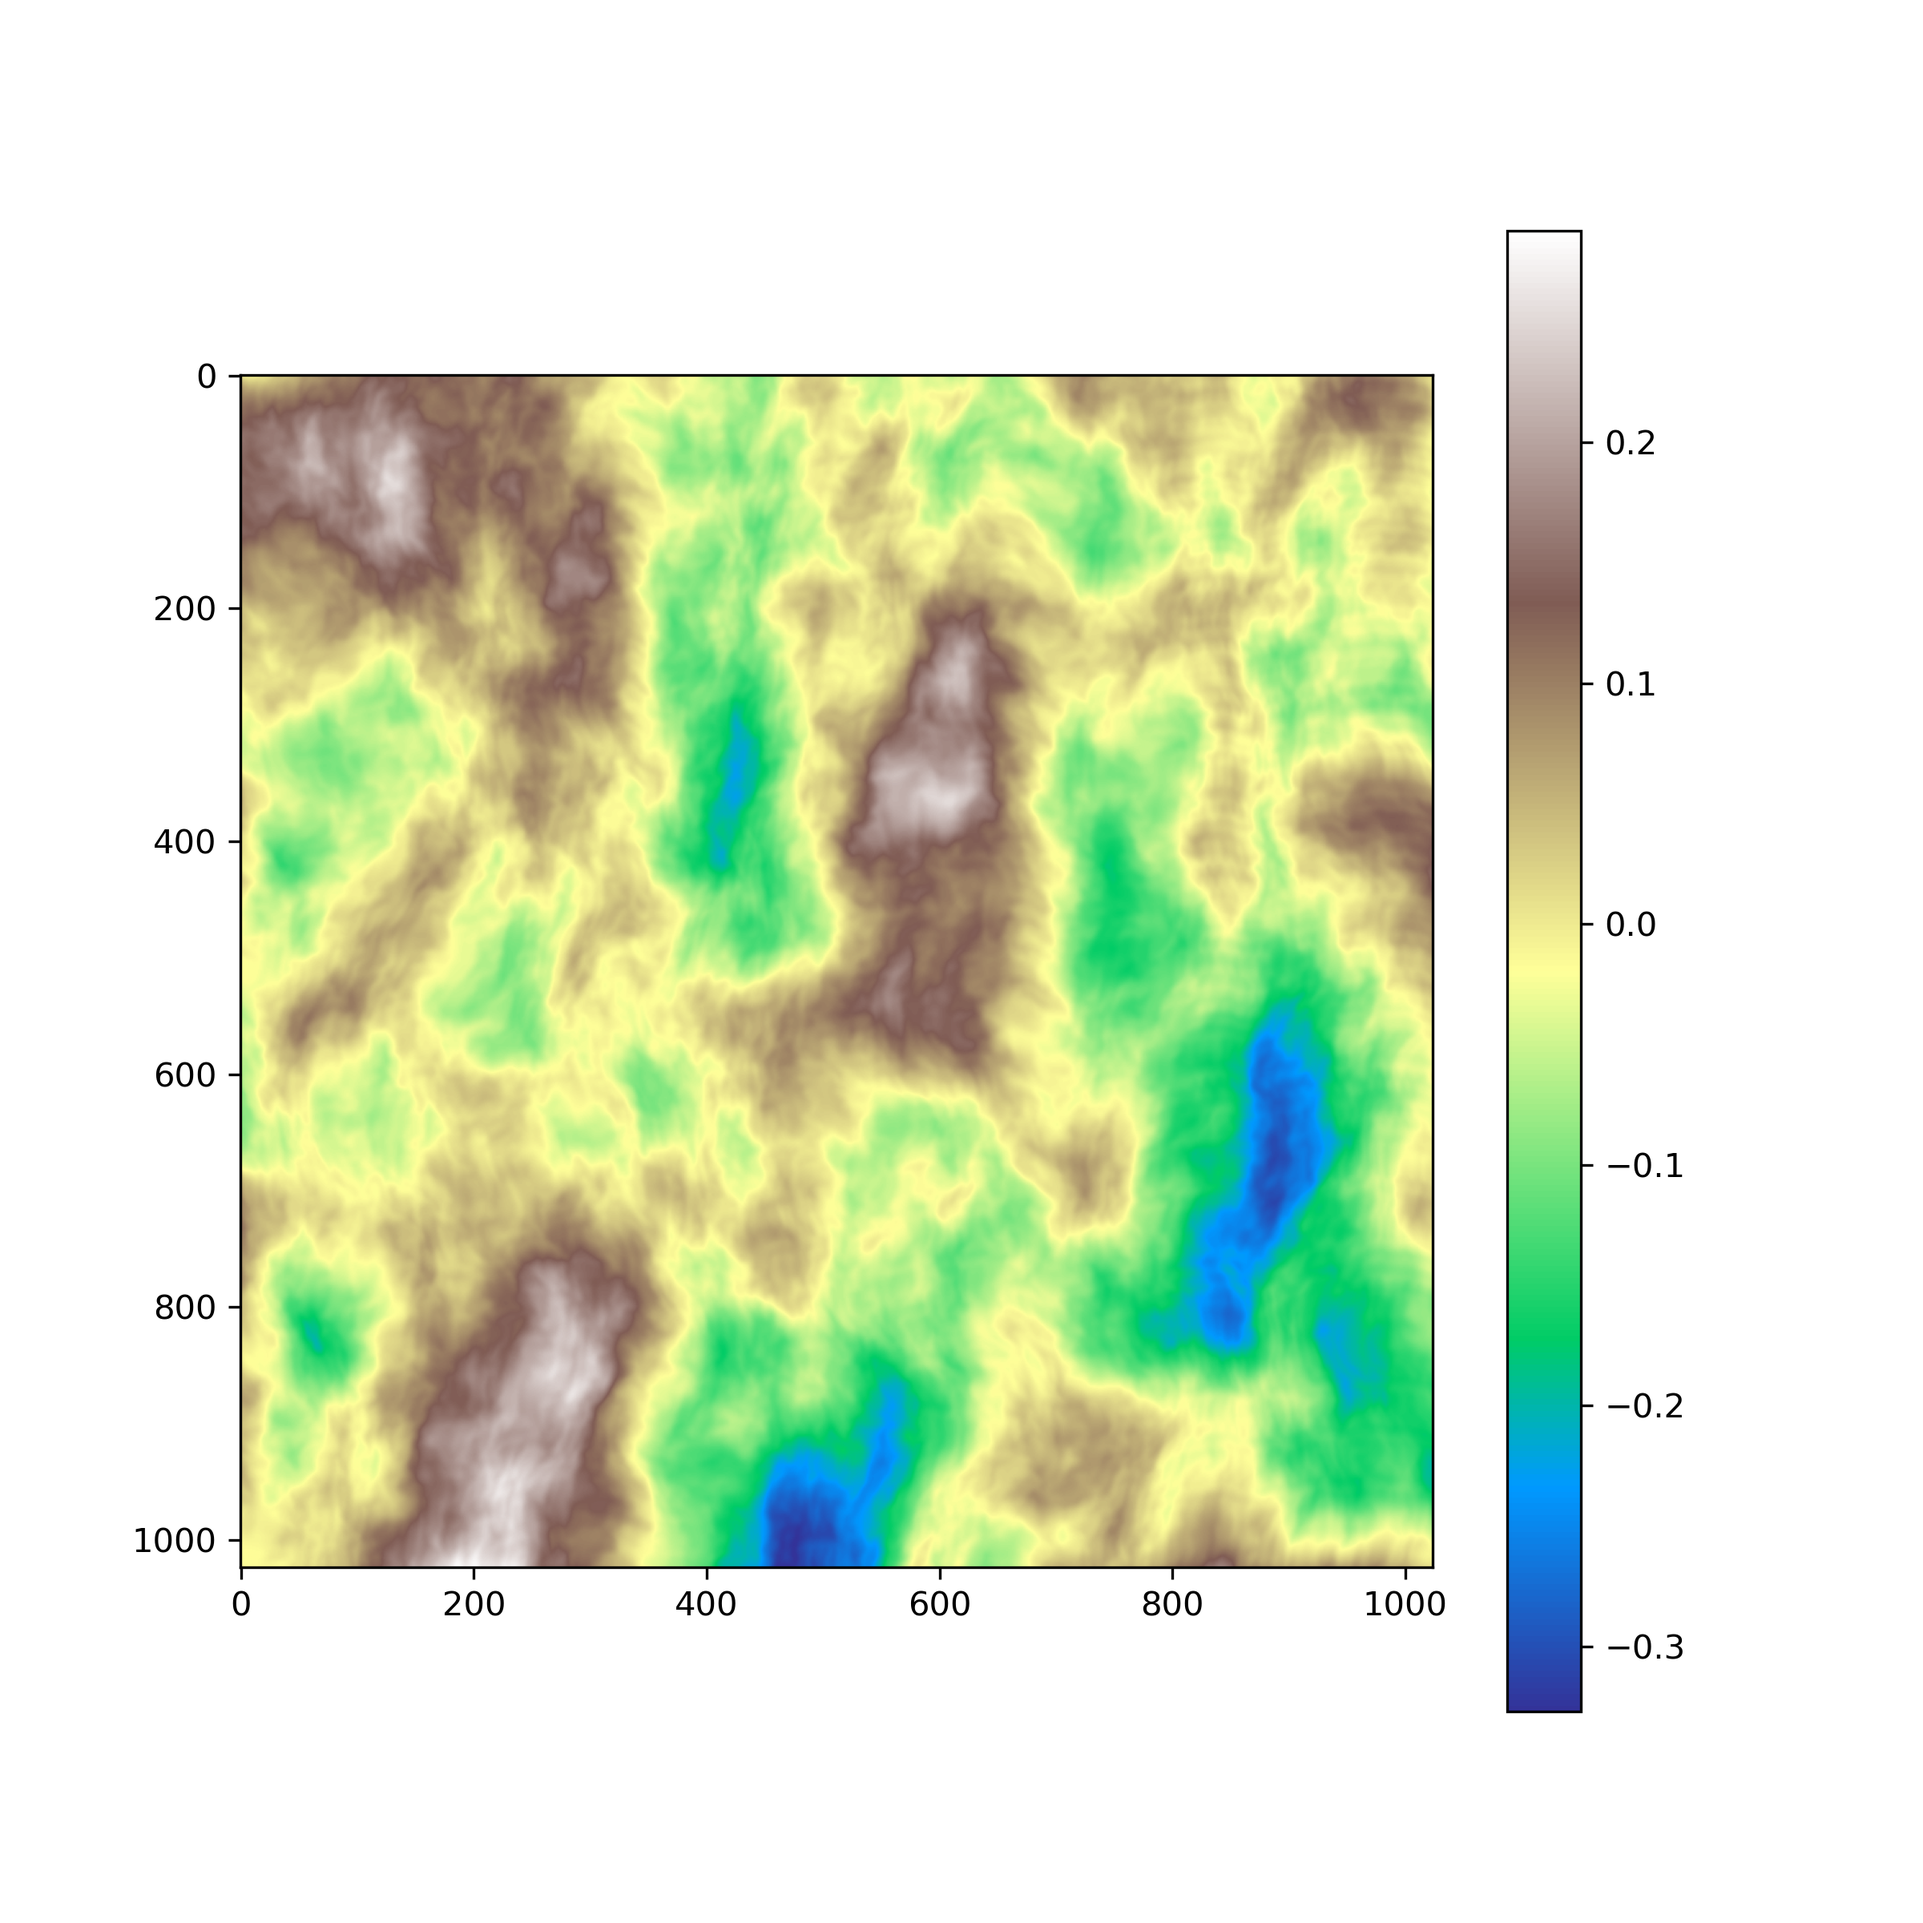
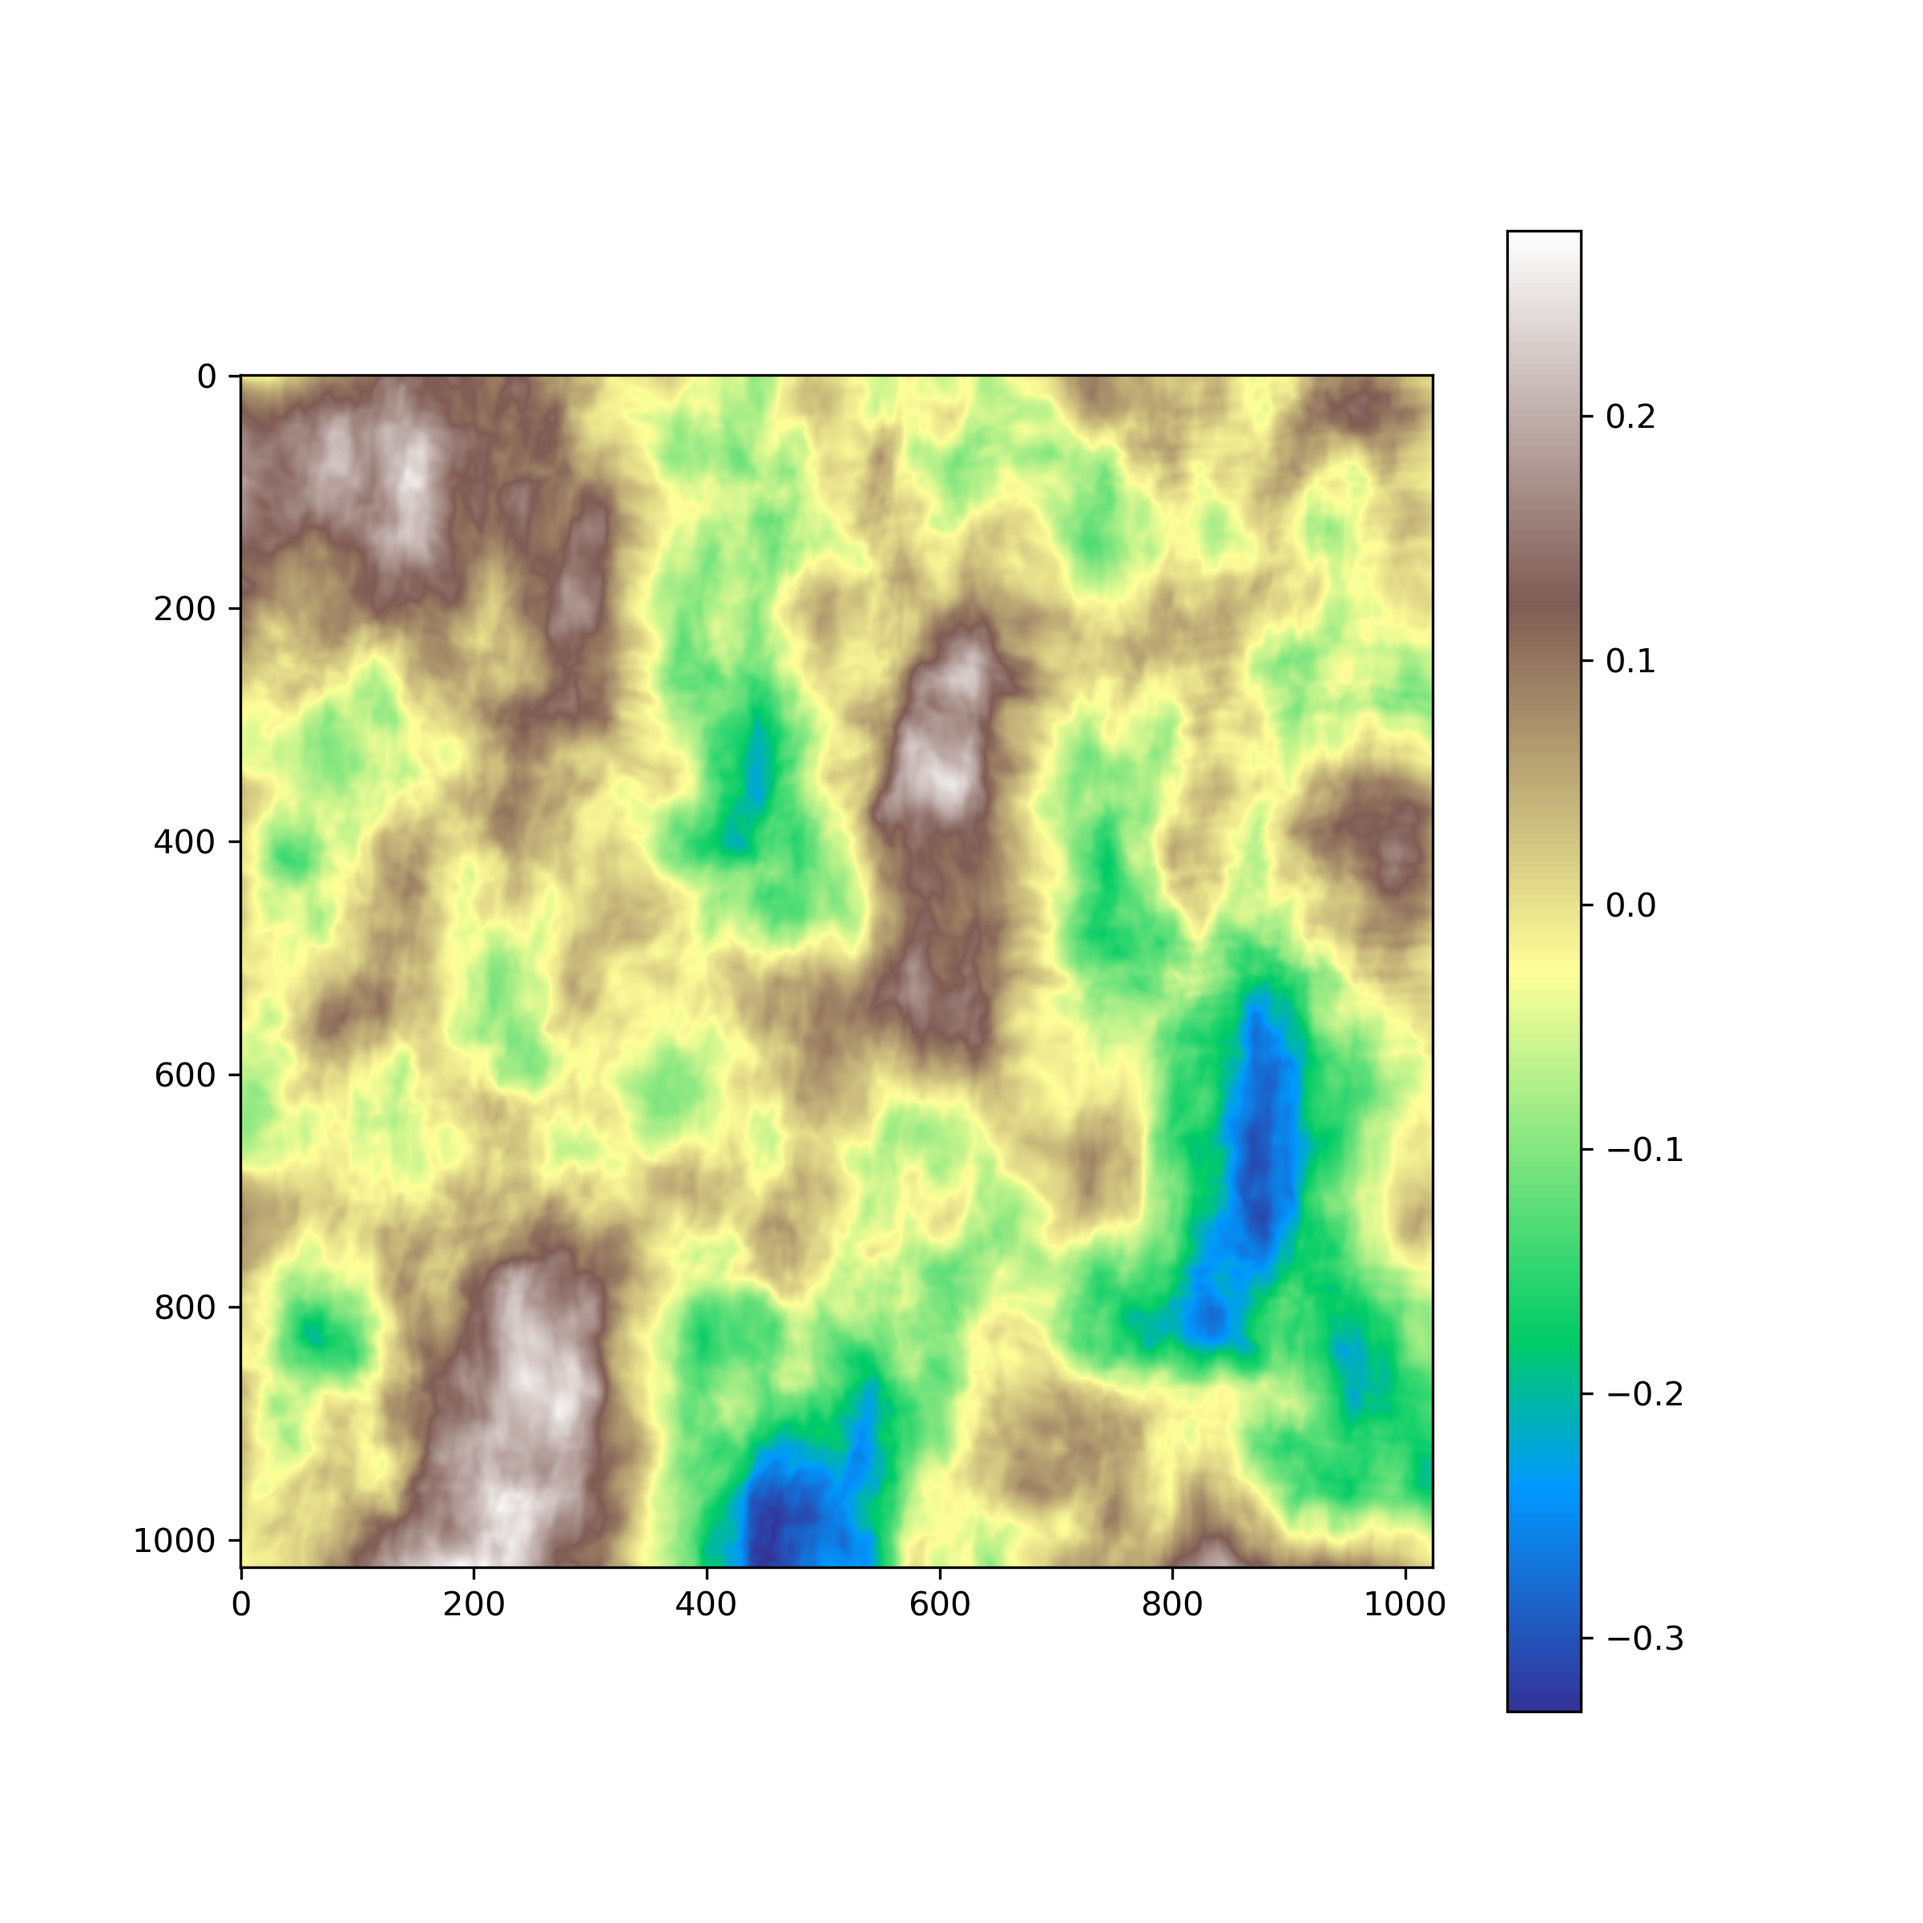
revised height to grayscale function

diff --git a/terrain.py b/terrain.py
@@ -17,25 +17,28 @@ def create_terrain(rng:np.random.Generator)->np.ndarray:
             wy=pnoise2(nx*3+5,ny*3+5,octaves=6,base=bases[1])
             nx2=nx+0.1*wx
             ny2=ny+0.1*wy
-            #elevation=pnoise2(nx2*8,ny2*8,octaves=6,base=bases[2])
             elevation=pnoise2(nx2*3,ny2*3,octaves=6,base=bases[2])
-            #elevation=pnoise2(nx,ny,octaves=6,base=bases[2])
             terrain[y,x]=elevation
     #terrain=gaussian_filter(terrain,4,mode="wrap")
     return terrain
 
 def save_terrain(terrain:np.ndarray,
                  filename_prefix:str):
-    size=4096
-    center=1024
+    size:int=4096
+    center:int=1024
     min_grey:float=2**16/8
-    zero_grey:float=2**16/4
-    max_grey:float=3*2**16/4
+    zero_grey:float=3**16/4
+    max_grey:float=7*2**16/8
     tmax,tmin=terrain.max(),terrain.min()
-    def f(x):
+    def f(t):
+        if t<=0:
+            x=-t/tmin
+        else:
+            x=t/tmax
+        x=x**3
         if x<=0:
-            return ((tmin-x)/tmin)*(zero_grey-min_grey)+min_grey
-        return x/tmax*(max_grey-zero_grey)+zero_grey
+            return (x+1)*(zero_grey-min_grey)+min_grey
+        return x*(max_grey-zero_grey)+zero_grey
     f=np.vectorize(f)
     wm=np.round(f(terrain)).astype(np.uint16)
     wm=cv2.resize(wm,(size,size),interpolation=cv2.INTER_CUBIC)
